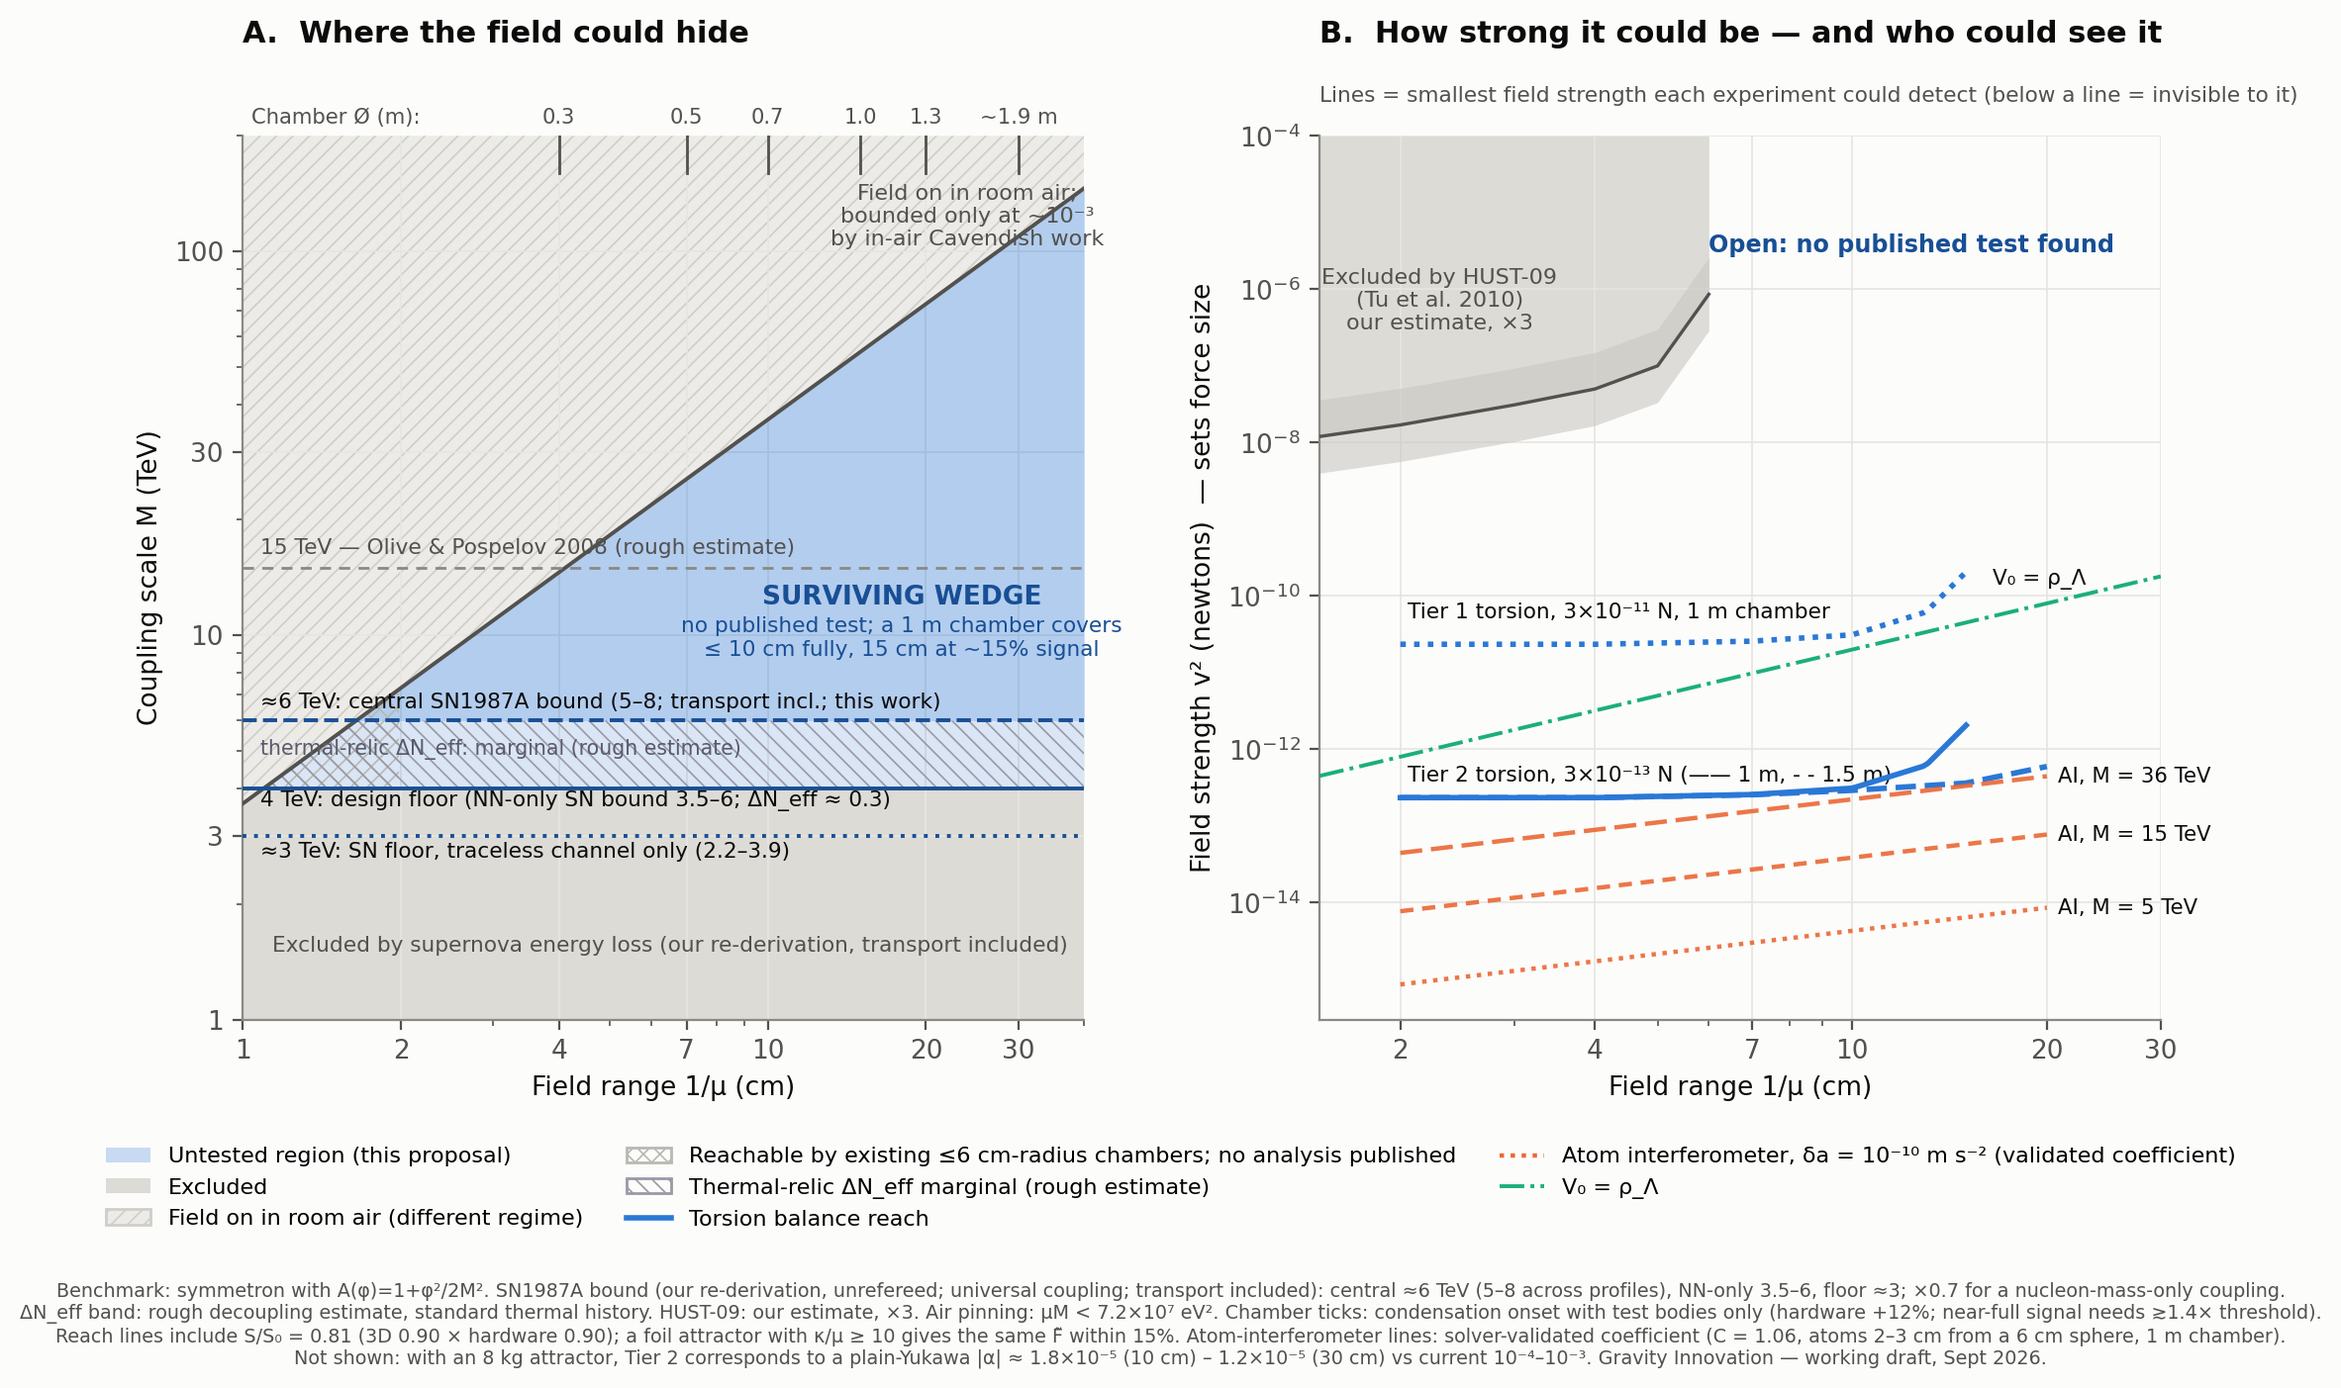
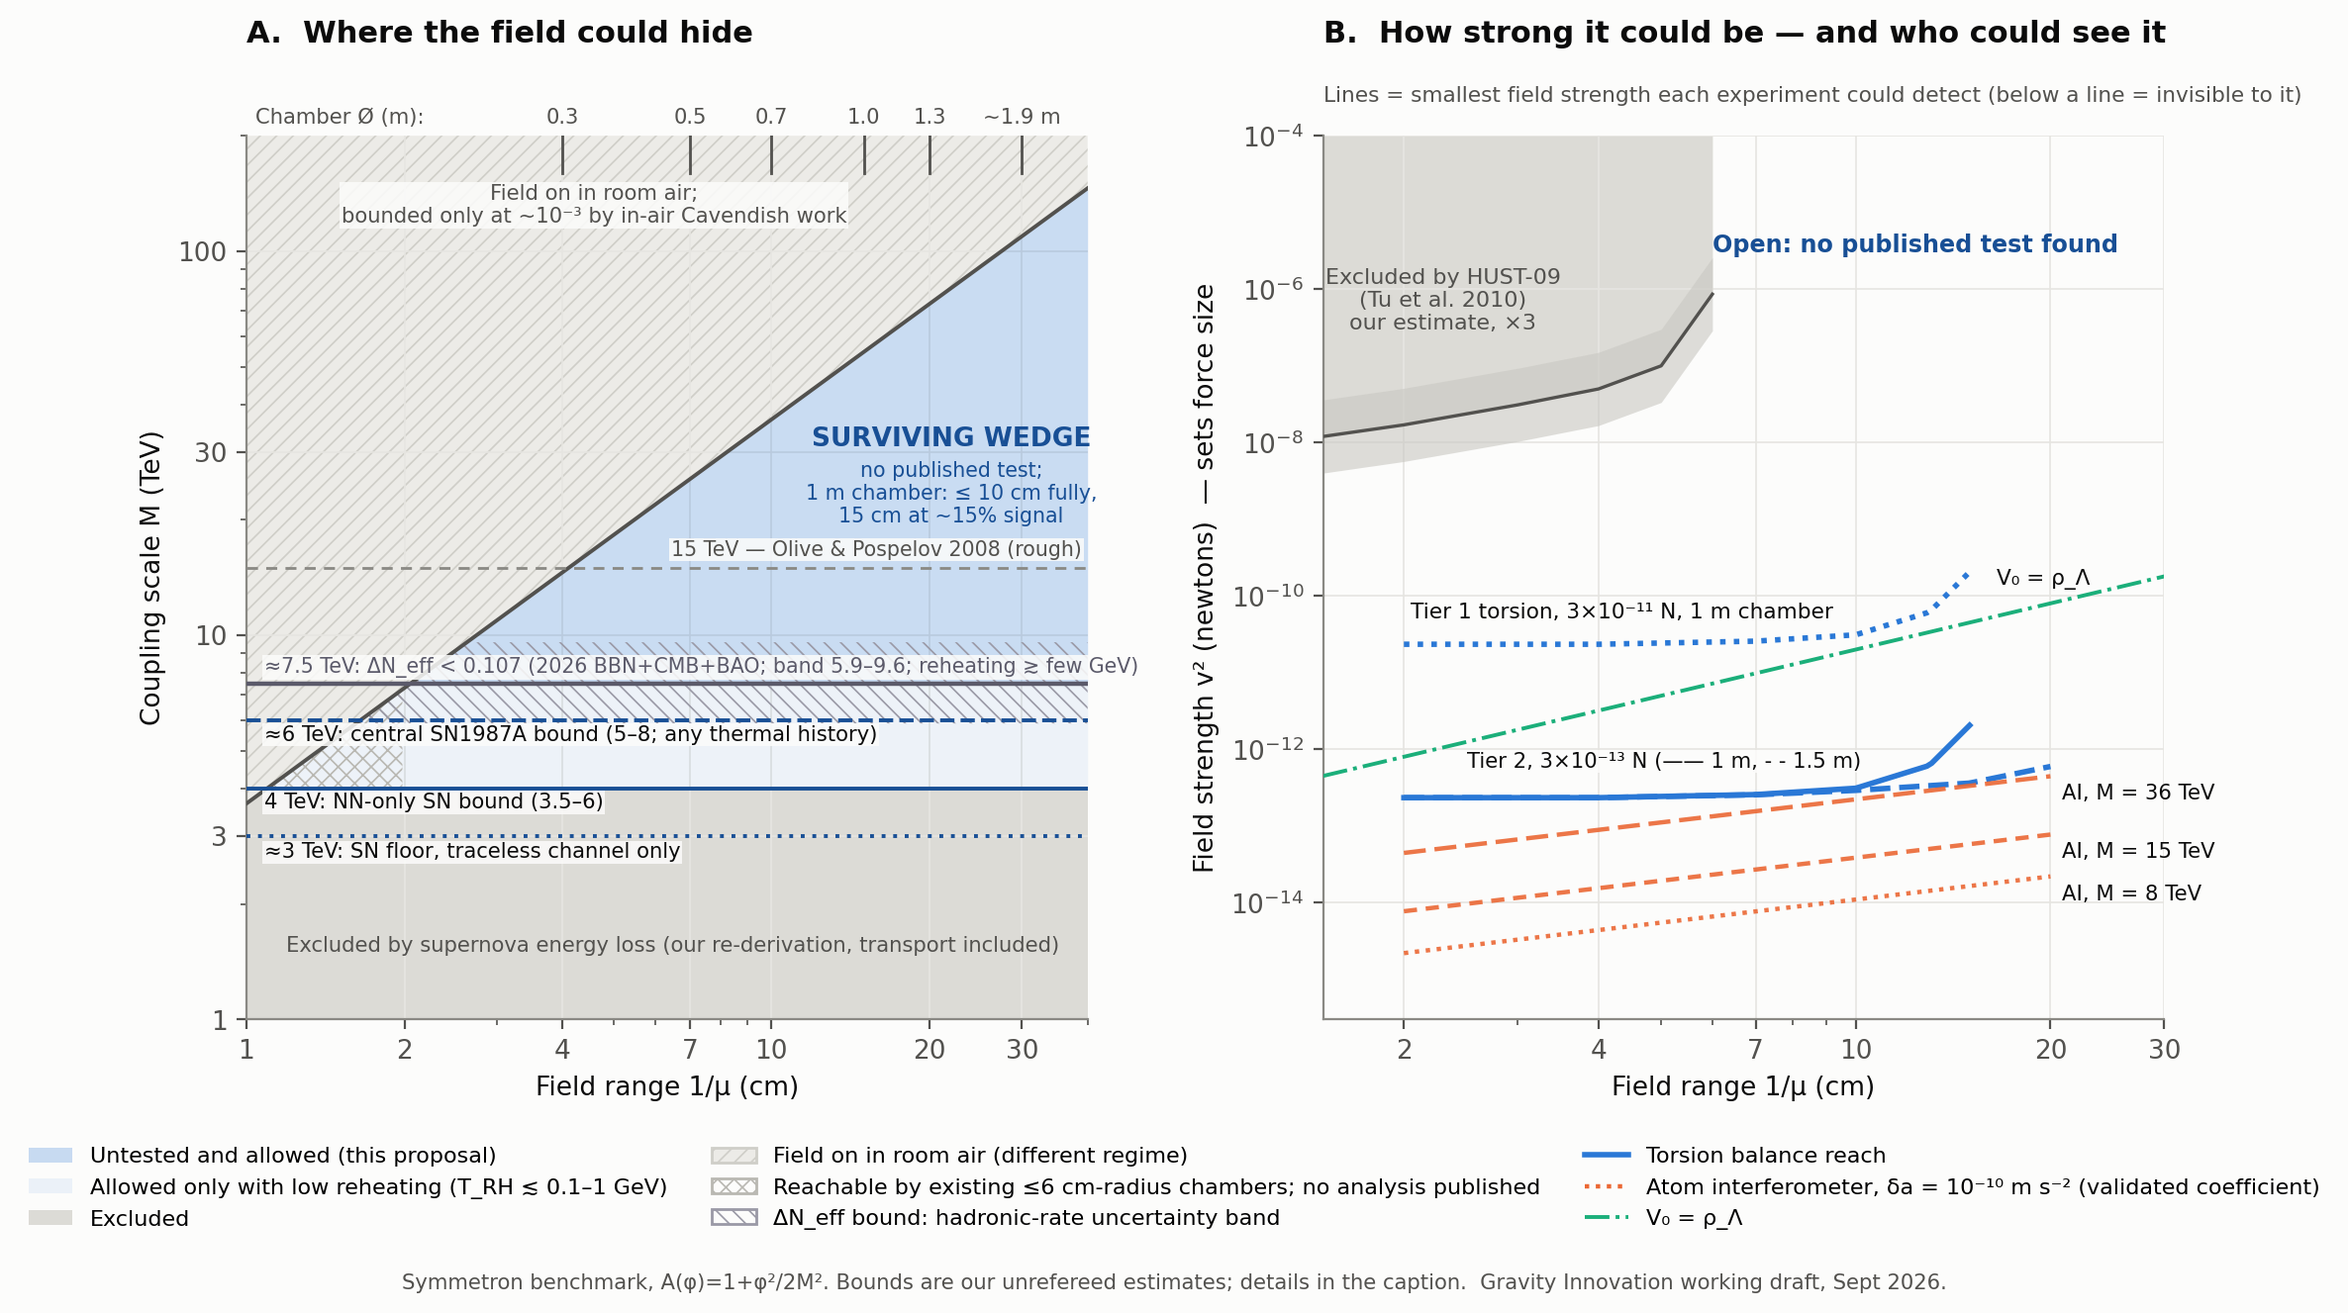
v2.1: add figures

diff --git a/figures/wedge_map_v3.py b/figures/wedge_map_v3.py
@@ -1,0 +1,166 @@
+import os as _gi_os
+def _gi_root():
+    d = _gi_os.path.dirname(_gi_os.path.abspath(__file__))
+    while not _gi_os.path.exists(_gi_os.path.join(d, 'GI_REPO_ROOT')) and _gi_os.path.dirname(d) != d:
+        d = _gi_os.path.dirname(d)
+    return d
+_GI = _gi_root()  # repository root (portable replacement for original absolute paths)
+"""Wedge map v2 for the density-gated scalar (symmetron benchmark) large-vacuum proposal (Gravity Innovation, 2026-09-27).
+Panel A: where the field could hide (range 1/mu vs coupling M).
+Panel B: how strong it could be (field strength v^2 vs range), with existing exclusions and proposed reach.
+SN1987A (round 1, transport MC): floor ~3 (2.2-3.9), NN-only 3.5-6.0, central 5.3-7.9 -> 'M >~ 6 (5-8)';
+thermal-relic Delta N_eff rough estimate: <~4 TeV disfavoured, 4-6 marginal; design factor S/S0 = 0.81 (3D 0.90 x hardware 0.90).
+Implements fable/synthesis/figure_spec.md."""
+import numpy as np
+import matplotlib
+matplotlib.use("Agg")
+import matplotlib.pyplot as plt
+from matplotlib.patches import Patch
+
+SURF = "#fcfcfb"; INK = "#0b0b0b"; INK2 = "#52514e"; MUTED = "#8a8984"; GRID = "#e6e5e1"
+EXCL = "#dcdbd6"; EXCL2 = "#ecebe7"
+BLUE = "#2a78d6"; BLUE_D = "#184f95"; ORANGE = "#eb6834"; AQUA = "#1baf7a"
+NEFF_EDGE = "#9a99a6"; NEFF_TXT = "#5b5a6a"
+
+plt.rcParams.update({
+    "font.family": "DejaVu Sans", "font.size": 9.5, "axes.edgecolor": MUTED, "axes.labelcolor": INK,
+    "xtick.color": INK2, "ytick.color": INK2, "axes.titlecolor": INK, "figure.facecolor": SURF,
+    "axes.facecolor": SURF, "savefig.facecolor": SURF, "hatch.linewidth": 0.6,
+})
+
+fig, (axA, axB) = plt.subplots(1, 2, figsize=(12.5, 5.8), gridspec_kw={"wspace": 0.28})
+
+# ---------------- Panel A ----------------
+x = np.logspace(np.log10(1.0), np.log10(40.0), 400)      # 1/mu in cm
+M_air = 3.65 * x                                          # TeV, air-pinning ceiling (mu*M < 7.2e7 eV^2)
+M_floor, M_design, M_central, M_op = 3.0, 4.0, 6.0, 15.0
+ylo, yhi = 1.0, 200.0
+
+M_neff, M_neff_lo, M_neff_hi = 7.5, 5.9, 9.6
+BOX = dict(facecolor=SURF, edgecolor="none", pad=0.6, alpha=0.85)
+axA.fill_between(x, ylo, M_design, color=EXCL, lw=0, zorder=1)
+axA.fill_between(x, np.maximum(M_air, ylo), yhi, color=EXCL2, lw=0, hatch="////", edgecolor="#cfcec8", zorder=1)
+# allowed only with SN systematics / non-standard thermal history: pale; standard cosmology: stronger
+mask = M_air > M_design
+axA.fill_between(x[mask], np.full(mask.sum(), M_design), np.minimum(M_air[mask], M_neff), color=BLUE, alpha=0.07, lw=0, zorder=2)
+mask2 = M_air > M_neff
+axA.fill_between(x[mask2], np.full(mask2.sum(), M_neff), M_air[mask2], color=BLUE, alpha=0.24, lw=0, zorder=2)
+axA.plot(x, M_air, color=INK2, lw=1.4, zorder=3)
+
+# x < 2 cm: reachable by existing R <= 6 cm chambers, but no analysis published there
+xs2 = x[(x <= 2.0) & (M_air > M_design)]
+axA.fill_between(xs2, M_design, 3.65 * xs2, color="none", hatch="xxxx", edgecolor="#b9b8b2", lw=0, zorder=2.5)
+
+# thermal-relic Delta N_eff (Boltzmann calculation, fable/neff_proper): < 0.107 excludes M < 7.5 (5.9-9.6) TeV
+axA.fill_between(x, M_neff_lo, np.minimum(M_neff_hi, np.maximum(M_air, M_neff_lo)), facecolor="none", hatch="\\\\\\\\",
+                 edgecolor=NEFF_EDGE, lw=0, zorder=2.6)
+axA.axhline(M_neff, color=NEFF_TXT, lw=1.6, ls="-", zorder=3)
+
+for yv, ls, lab, ytxt, va in [
+    (M_floor, (0, (1, 2)), "≈3 TeV: SN floor, traceless channel only", M_floor * 0.965, "top"),
+    (M_design, "-", "4 TeV: NN-only SN bound (3.5–6)", M_design * 0.975, "top"),
+    (M_central, "--", "≈6 TeV: central SN1987A bound (5–8; any thermal history)", M_central * 0.975, "top"),
+]:
+    axA.axhline(yv, color=BLUE_D, lw=1.4, ls=ls, zorder=3)
+    axA.text(1.08, ytxt, lab, color=INK, fontsize=7.6, va=va, zorder=5, bbox=BOX)
+axA.text(1.08, M_neff * 1.035, "≈7.5 TeV: ΔN_eff < 0.107 (2026 BBN+CMB+BAO; band 5.9–9.6; reheating ≳ few GeV)",
+         color=NEFF_TXT, fontsize=7.4, va="bottom", zorder=5, bbox=BOX)
+axA.axhline(M_op, color=MUTED, lw=1.0, ls=(0, (4, 3)), zorder=3)
+axA.text(39, M_op * 1.05, "15 TeV — Olive & Pospelov 2008 (rough)", color=INK2, fontsize=7.4, va="bottom", ha="right",
+         zorder=5, bbox=BOX)
+
+axA.text(4.6, 150, "Field on in room air;\nbounded only at ~10⁻³ by in-air Cavendish work", color=INK2, fontsize=7.6,
+         ha="center", va="top", zorder=5, bbox=BOX)
+axA.text(6.5, 1.5, "Excluded by supernova energy loss (our re-derivation, transport included)", color=INK2,
+         fontsize=7.6, ha="center")
+axA.text(22, 30, "SURVIVING WEDGE", color=BLUE_D, fontsize=9.5, weight="bold", ha="center", va="bottom", zorder=5)
+axA.text(22, 28.5, "no published test;\n1 m chamber: ≤ 10 cm fully,\n15 cm at ~15% signal", color=BLUE_D,
+         fontsize=7.4, ha="center", va="top", zorder=5)
+
+for xc, lab in [(4, "0.3"), (7, "0.5"), (10, "0.7"), (15, "1.0"), (20, "1.3"), (30, "~1.9 m")]:
+    axA.plot([xc, xc], [yhi / 1.25, yhi], color=INK2, lw=1.0, zorder=4)
+    axA.text(xc, yhi * 1.05, lab, color=INK2, fontsize=7.6, ha="center", va="bottom")
+axA.text(1.04, yhi * 1.05, "Chamber Ø (m):", color=INK2, fontsize=7.6, ha="left", va="bottom")
+
+axA.set_xscale("log"); axA.set_yscale("log")
+axA.set_xlim(1.0, 40.0); axA.set_ylim(ylo, yhi)
+axA.set_xticks([1, 2, 4, 7, 10, 20, 30]); axA.set_xticklabels(["1", "2", "4", "7", "10", "20", "30"])
+axA.set_yticks([1, 3, 10, 30, 100]); axA.set_yticklabels(["1", "3", "10", "30", "100"])
+axA.set_xlabel("Field range 1/μ (cm)")
+axA.set_ylabel("Coupling scale M (TeV)")
+axA.set_title("A.  Where the field could hide", loc="left", fontsize=11, weight="bold", pad=34)
+axA.grid(True, which="major", color=GRID, lw=0.6, zorder=0)
+for s in ["top", "right"]: axA.spines[s].set_visible(False)
+
+# ---------------- Panel B ----------------
+def interp_log(xq, xs, ys):
+    return np.exp(np.interp(np.log(xq), np.log(xs), np.log(ys)))
+
+# HUST-09 exclusion (50 ppm column), 1.5-6 cm, our estimate x3
+hx = np.array([1.5, 2, 3, 4, 5, 6]); hv = np.array([1.2e-8, 1.7e-8, 3.1e-8, 5.0e-8, 1.0e-7, 8.6e-7])
+axB.fill_between(hx, hv, 1e-4, color=EXCL, lw=0, zorder=1)
+axB.fill_between(hx, hv / 3, hv * 3, color="#c9c8c2", alpha=0.6, lw=0, zorder=2)
+axB.plot(hx, hv, color=INK2, lw=1.2, zorder=3)
+axB.text(2.3, 3e-7, "Excluded by HUST-09\n(Tu et al. 2010)\nour estimate, ×3", color=INK2, fontsize=8.0, ha="center")
+
+# torsion-balance reach with S/S0 factor
+S_OVER_S0 = 0.90 * 0.90
+T1, T2 = 3.0e-11, 3.0e-13
+Fx_1m = np.array([2, 4, 7, 10, 13, 15]); Ft_1m = np.array([1.58, 1.58, 1.44, 1.19, 0.60, 0.18])
+Fx_15 = np.array([2, 4, 7, 10, 15, 20]); Ft_15 = np.array([1.58, 1.58, 1.45, 1.27, 1.02, 0.62])
+x1 = np.logspace(np.log10(2), np.log10(15), 120)
+x15 = np.logspace(np.log10(2), np.log10(20), 120)
+def reach(F_tier, xq, xs, ys):
+    return F_tier / (S_OVER_S0 * interp_log(xq, xs, ys))
+axB.plot(x1, reach(T2, x1, Fx_1m, Ft_1m), color=BLUE, lw=2.0, zorder=4)
+axB.plot(x15, reach(T2, x15, Fx_15, Ft_15), color=BLUE, lw=2.0, ls="--", zorder=4)
+axB.plot(x1, reach(T1, x1, Fx_1m, Ft_1m), color=BLUE, lw=2.0, ls=(0, (1, 1.5)), zorder=4)
+axB.text(2.5, 5.2e-13, "Tier 2, 3×10⁻¹³ N (—— 1 m, - - 1.5 m)", color=INK, fontsize=7.6, va="bottom", zorder=6, bbox=dict(facecolor=SURF, edgecolor="none", pad=0.6, alpha=0.85))
+axB.text(2.05, 4.5e-11, "Tier 1 torsion, 3×10⁻¹¹ N, 1 m chamber", color=INK, fontsize=7.8, va="bottom")
+
+# dark-energy line V0 = rho_Lambda: v^2 = 4 rho_Lambda / mu^2 = 2.0e-11 N (1/mu / 10 cm)^2
+xl = np.logspace(np.log10(1.5), np.log10(30), 60)
+axB.plot(xl, 2.0e-11 * (xl / 10.0) ** 2, color=AQUA, lw=1.4, ls="-.", zorder=3.5)
+axB.text(19.5, 2.0e-11 * (19.5 / 10) ** 2 * 1.6, "V₀ = ρ_Λ", color=INK, fontsize=7.8, va="bottom", ha="center")
+
+# atom interferometer, validated coefficient: v2_min = 4.3e-15 N (1/mu/10cm)(M/5TeV)^2 at 1e-10 m/s^2
+xa = np.logspace(np.log10(2), np.log10(20), 100)
+for M_TeV, ls in [(8.0, (0, (1, 1.5))), (15.0, (0, (3, 2))), (36.0, (0, (5, 2)))]:
+    v2 = 4.3e-15 * (xa / 10.0) * (M_TeV / 5.0) ** 2
+    axB.plot(xa, v2, color=ORANGE, lw=1.6, ls=ls, alpha=0.9, zorder=4)
+    axB.text(xa[-1] * 1.04, v2[-1] * 0.8, f"AI, M = {M_TeV:g} TeV", color=INK, fontsize=7.6, va="top")
+
+axB.text(6, 3e-6, "Open: no published test found", color=BLUE_D, fontsize=8.6, ha="left", weight="bold")
+axB.set_xscale("log"); axB.set_yscale("log")
+axB.set_xlim(1.5, 30); axB.set_ylim(3e-16, 1e-4)
+axB.set_xticks([2, 4, 7, 10, 20, 30]); axB.set_xticklabels(["2", "4", "7", "10", "20", "30"])
+axB.set_xlabel("Field range 1/μ (cm)")
+axB.set_ylabel("Field strength v² (newtons)  — sets force size")
+axB.set_title("B.  How strong it could be — and who could see it", loc="left", fontsize=11, weight="bold", pad=34)
+axB.grid(True, which="major", color=GRID, lw=0.6, zorder=0)
+for s in ["top", "right"]: axB.spines[s].set_visible(False)
+axB.text(1.5, 2.5e-4, "Lines = smallest field strength each experiment could detect (below a line = invisible to it)",
+         color=INK2, fontsize=7.8, ha="left", va="bottom")
+
+handles = [Patch(facecolor=BLUE, alpha=0.25, label="Untested and allowed (this proposal)"),
+           Patch(facecolor=BLUE, alpha=0.08, label="Allowed only with low reheating (T_RH ≲ 0.1–1 GeV)"),
+           Patch(facecolor=EXCL, label="Excluded"),
+           Patch(facecolor=EXCL2, hatch="////", edgecolor="#cfcec8", label="Field on in room air (different regime)"),
+           Patch(facecolor="none", hatch="xxxx", edgecolor="#b9b8b2", label="Reachable by existing ≤6 cm-radius chambers; no analysis published"),
+           Patch(facecolor="none", hatch="\\\\\\\\", edgecolor=NEFF_EDGE, label="ΔN_eff bound: hadronic-rate uncertainty band"),
+           plt.Line2D([], [], color=BLUE, lw=2, label="Torsion balance reach"),
+           plt.Line2D([], [], color=ORANGE, lw=1.6, ls=(0, (1, 1.5)), label="Atom interferometer, δa = 10⁻¹⁰ m s⁻² (validated coefficient)"),
+           plt.Line2D([], [], color=AQUA, lw=1.4, ls="-.", label="V₀ = ρ_Λ")]
+fig.legend(handles=handles, loc="lower center", ncol=3, frameon=False, fontsize=8.0, bbox_to_anchor=(0.5, -0.09))
+fig.text(0.5, -0.125, "Symmetron benchmark, A(φ)=1+φ²/2M². Bounds are our unrefereed estimates; details in the caption.  Gravity Innovation working draft, Sept 2026.",
+         ha="center", fontsize=7.6, color=INK2)
+
+out = (_GI + '/figures/wedge_map.png')
+fig.savefig(out, dpi=200, bbox_inches="tight")
+print("saved", out)
+
+# acceptance checks
+for xv in [4, 7, 10, 15]:
+    print(f"Tier1 1m reach at {xv} cm: {reach(T1, np.array([xv]), Fx_1m, Ft_1m)[0]:.2e} N")
+print("rho_Lambda line at 10 cm:", 2.0e-11, " at 2 cm:", 2.0e-11 * 0.04)
+print("AI M=36 @10cm:", 4.3e-15 * (36 / 5) ** 2, " M=5 @10cm:", 4.3e-15)

diff --git a/figures/make_fig1_v2.py b/figures/make_fig1_v2.py
@@ -1,0 +1,76 @@
+import os as _gi_os
+def _gi_root():
+    d = _gi_os.path.dirname(_gi_os.path.abspath(__file__))
+    while not _gi_os.path.exists(_gi_os.path.join(d, 'GI_REPO_ROOT')) and _gi_os.path.dirname(d) != d:
+        d = _gi_os.path.dirname(d)
+    return d
+_GI = _gi_root()  # repository root (portable replacement for original absolute paths)
+"""Figure 1 of the v2 note: escaping phi-pair luminosity L_esc(M) from the Monte Carlo transport
+(fable/sn_deep/transport_mc.json) for the cold and hot parametrised 1-s profiles, NN-only and NN+pi(1%),
+against the luminosity criterion. Dashed: free-streaming L_prod/M^4 (f_esc = 1). Also writes fig1_data_v2.json."""
+import json, numpy as np
+import matplotlib
+matplotlib.use('Agg')
+import matplotlib.pyplot as plt
+
+SRC = (_GI + '/supernova/sn_deep/transport_mc.json')
+OUT = (_GI + '/figures/')
+d = json.load(open(SRC))
+
+# validated categorical palette (dataviz reference instance, light mode); identity also carried by line style + labels
+COL = {'cold_Y0.01': '#2a78d6', 'hot_Y0.01': '#eb6834', 'cold_Y0.0': '#1baf7a', 'hot_Y0.0': '#4a3aa7'}
+LAB = {'cold_Y0.01': 'cold, NN + $\\pi$ (1%)', 'hot_Y0.01': 'hot, NN + $\\pi$ (1%)',
+       'cold_Y0.0': 'cold, NN only', 'hot_Y0.0': 'hot, NN only'}
+LS = {'cold_Y0.01': '-', 'hot_Y0.01': '-', 'cold_Y0.0': '-', 'hot_Y0.0': '-'}
+L_CRIT, L_ALT = 3e52, 5.7e52
+
+def mmin(M, L, Lc):
+    M, L = np.asarray(M), np.asarray(L)
+    if not (L.min() < Lc < L.max()):
+        return None
+    return float(np.exp(np.interp(-np.log(Lc), -np.log(L), np.log(M))))
+
+data_out = {}
+fig, (ax, ax2) = plt.subplots(1, 2, figsize=(10.2, 4.3), gridspec_kw=dict(width_ratios=[1.55, 1]))
+for key in ('hot_Y0.01', 'cold_Y0.01', 'hot_Y0.0', 'cold_Y0.0'):
+    rows = d[key]
+    M = np.array([r['M'] for r in rows]); L = np.array([r['Lesc'] for r in rows]); f = np.array([r['f_esc'] for r in rows])
+    Lprod1 = L[-1] * M[-1] ** 4 / f[-1]          # L_prod at 1 TeV (free streaming), from the M=10 point
+    Mfine = np.linspace(2.5, 10, 200)
+    ax.plot(Mfine, Lprod1 / Mfine ** 4, ls='--', lw=1.2, color=COL[key], alpha=0.55)
+    ax.plot(M, L, ls=LS[key], lw=2, color=COL[key], marker='o', ms=4.5, mfc='white', mew=1.5, label=LAB[key])
+    ax2.plot(M, f, lw=2, color=COL[key], marker='o', ms=4.5, mfc='white', mew=1.5)
+    data_out[key] = dict(M=M.tolist(), L_esc=L.tolist(), f_esc=f.tolist(), L_prod_1TeV=float(Lprod1),
+                         Mmin_3e52_MC=mmin(M, L, L_CRIT), Mmin_5p7e52_MC=mmin(M, L, L_ALT),
+                         Mmin_3e52_free=float((Lprod1 / L_CRIT) ** 0.25), Mmin_5p7e52_free=float((Lprod1 / L_ALT) ** 0.25))
+    mm = data_out[key]['Mmin_3e52_MC']
+    if mm:
+        ax.plot([mm], [L_CRIT], marker='v', ms=7, color=COL[key], zorder=5)
+        ax.annotate(f'{mm:.1f}', (mm, L_CRIT), xytext=(0, 9), textcoords='offset points', ha='center', fontsize=8.5, color='#333')
+
+ax.axhline(L_CRIT, color='#444', lw=1.2)
+ax.axhline(L_ALT, color='#444', lw=1.0, ls=':')
+ax.text(1.22, L_CRIT * 0.93, '$L_\\phi<3\\times10^{52}$ erg/s', va='top', ha='left', fontsize=8, color='#333')
+ax.text(1.22, L_ALT * 1.07, 'alt. $5.7\\times10^{52}$', va='bottom', ha='left', fontsize=8, color='#333')
+ax.axvspan(0, 2.5, color='#ddd', alpha=0.5, lw=0)
+ax.text(1.95, 1.6e51, 'not computed\n(< 2.5 TeV);\nband edge\n1–2 TeV\n(diffusion)', ha='center', va='bottom', fontsize=8, color='#333')
+ax.set_yscale('log'); ax.set_xlim(1.15, 10.4); ax.set_ylim(1e51, 5e53)
+ax.set_xlabel('$M$ [TeV]'); ax.set_ylabel('$L_{\\rm esc}$ at 1 s [erg s$^{-1}$]')
+ax.set_title('(a) Escaping $\\phi\\phi$ luminosity: Monte Carlo transport (solid) vs free streaming (dashed)', fontsize=9.5, loc='left')
+ax.legend(frameon=False, fontsize=8.5, loc='upper right')
+ax.grid(True, which='major', color='#eee', lw=0.8); ax.set_axisbelow(True)
+for s in ('top', 'right'):
+    ax.spines[s].set_visible(False); ax2.spines[s].set_visible(False)
+
+ax2.set_xlim(2.2, 10.5); ax2.set_ylim(0, 1.02)
+ax2.set_xlabel('$M$ [TeV]'); ax2.set_ylabel('$f_{\\rm esc}=L_{\\rm esc}/L_{\\rm prod}$')
+ax2.set_title('(b) Escape fraction (same colours as (a))', fontsize=9.5, loc='left')
+ax2.grid(True, color='#eee', lw=0.8); ax2.set_axisbelow(True)
+ax2.set_xticks([3, 4, 5, 6, 7, 8, 10])
+fig.tight_layout()
+fig.savefig(OUT + 'fig1_Lesc_vs_M.png', dpi=170)
+json.dump(data_out, open(OUT + 'fig1_data_v2.json', 'w'), indent=1)
+for k, v in data_out.items():
+    print(k, 'M_min(3e52): MC %.2f free %.2f | (5.7e52): MC %s free %.2f' % (
+        v['Mmin_3e52_MC'] or float('nan'), v['Mmin_3e52_free'],
+        f"{v['Mmin_5p7e52_MC']:.2f}" if v['Mmin_5p7e52_MC'] else 'none (L_esc<5.7e52 for all M>=2.5)', v['Mmin_5p7e52_free']))
